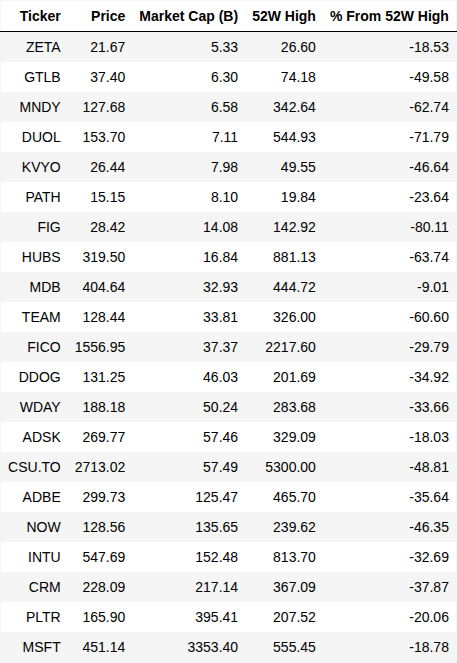
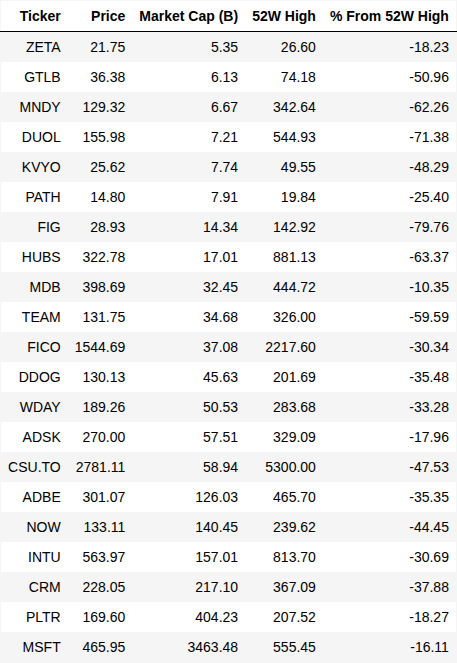
Update daily stock snapshot

diff --git a/sw_stock_tracker/recommendations.md b/sw_stock_tracker/recommendations.md
@@ -4,3 +4,4 @@
 - 2026-01-21 05:23 UTC — Buy ZETA, KVYO because they have positive sentiment, low market caps indicating higher growth potential, and are not too far from their 52-week highs, making them reasonable entry points.
 - 2026-01-22 06:48 UTC — Buy ZETA, KVYO because they have positive sentiment, low market caps indicating higher growth potential, and are not too far from their 52-week highs, making them reasonable entry points.
 - 2026-01-23 07:58 UTC — Buy ZETA ($21.67) and PATH ($15.15) because they have positive sentiment, low market caps indicating higher growth potential, and are reasonably close to their 52-week highs, making them attractive entry points.
+- 2026-01-24 07:56 UTC — Buy ZETA ($21.75) and KVYO ($25.62) because they have positive sentiment, low market caps indicating higher growth potential, and are reasonably close to their 52-week highs, making them attractive entry points.
